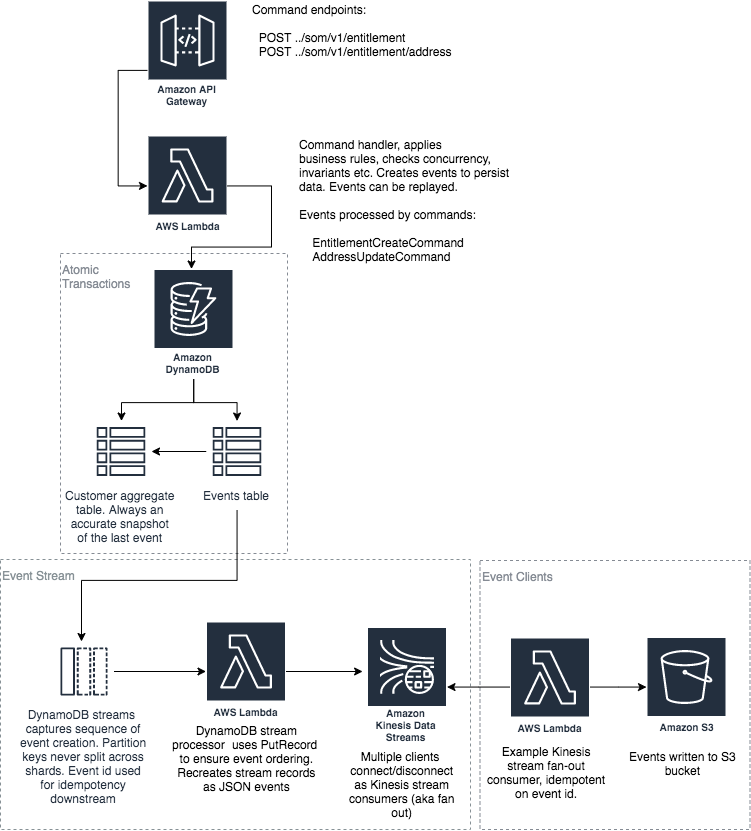
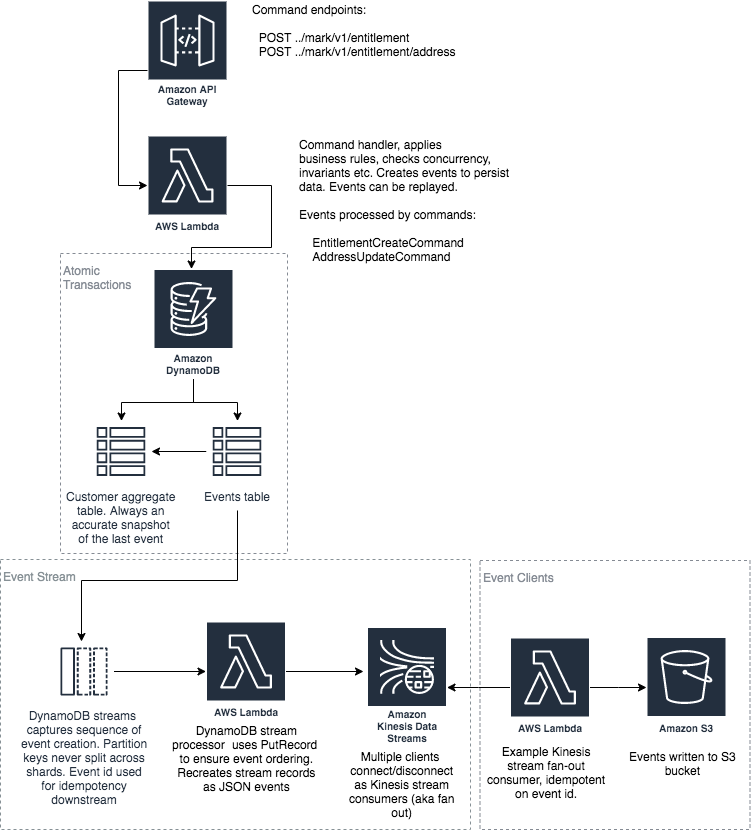
Improved README

diff --git a/src/main/java/com/sighware/mark/server/handler/Router.java b/src/main/java/com/sighware/mark/server/handler/Router.java
@@ -16,10 +16,10 @@ public class Router implements RequestHandler<AwsProxyRequest, AwsProxyResponse>
         try {
             log.info(request.getPath());
             switch (request.getPath()) {
-                case "/som/v1/entitlement":
+                case "/mark/v1/entitlement":
                     return new EntitlementHandler(DynamoDBAdapter.getInstance()).handle(request);
 
-                case "/som/v1/entitlement/address":
+                case "/mark/v1/entitlement/address":
                     return new AddressHandler(DynamoDBAdapter.getInstance()).handle(request);
 
                 default:

diff --git a/README.md b/README.md
@@ -1,3 +1,173 @@
 # mark-api
 
 ![mark](mark-api.png)
+
+This application depicted above is intended as a strawman to demonstrate the benefits of a light-weight, purely serverless event sourcing system. Event sourcing stores every state change to the application as an event object. These event objects are stored in the sequence they were applied for the lifetime of the application.
+
+Serverless was chosen to simplify the infrastructure with minimal dev ops; but, just as importantly, to use native cloud services rather than rely non-trivial specialist event sourced application frameworks. 
+
+This application adopts the core principle of event sourcing in that all changes to domain objects are done as a result of an event. Consequently, this straw man follows the key idioms of event sourcing: commands, immutable events, event streams, events as the system of record and the ability to replay the event stream to a point in time to get different states of a customer.
+
+The application perhaps deviates from a pure event sourcing pattern in these areas:
+
+1. No separate read and write models (i.e. no [CQRS](https://martinfowler.com/bliki/CQRS.html)). The view of the mark is always up to date so events do not necessarily need to be re-played; consequentially, there is no eventual consistency lag. Of course, being event sourced, events can still be replayed at anytime, if desired
+2. The app supports transactional concurrency, with an optimistic locking strategy
+2. Allows deletes, so in accordance with [GDPR](https://gdpr-info.eu/art-17-gdpr/), marks can be forgotten
+
+### System of Record
+
+The `RegistrationNumberEvent` table stores every single event that is submitted to the system. This is the immutable system of record for the application.
+
+The `RegistrationNumber` table is the materialized view of the system of record, for quick access by the application. This is not the system of record, merely a view of the system of record. 
+
+The mark can be retrieved from either the materialized view held in the `RegistrationNumber` table or rebuilt directly from the event stream held in the `RegistrationNumberEvent` table
+
+Both the `RegistrationNumberEvent` and `RegistrationNumber` table are persisted in one atomic transaction, with [Amazon DynamoDB Transactions](https://docs.aws.amazon.com/amazondynamodb/latest/developerguide/transactions.html), so that data updates are always consistent across both tables  
+
+### Event Stream
+
+Events traverse the event stream to notify downstream clients. The event stream is transactional and comprises:
+
+1. A DynamoDB stream from the `RegistrationNumberEvent` table, emitting transactional, reliable, time ordered sequence of events. Events remain in `RegistrationNumberEvent` for the lifetime of the application 
+2. The `DynamoDbStreamProcessor` lambda picks data off the DynamoDB stream and reassembles it into a JSON representation of the event. This event is then written to the kinesis stream`RegistrationNumberEventKinesisStream`.
+3. The Kinesis `CustomerEventKinesisStream` stream maintains the same time ordered sequence of events that can be fanned out to multiple interested clients
+4. The `KinesisStreamS3Processor` lambda is an example of a HTTP/2 Kinesis client using [enhanced fan-out](https://docs.aws.amazon.com/streams/latest/dev/introduction-to-enhanced-consumers.html) to read from the stream. It writes the events to S3. Multiple other enhanced fan-out Lambdas could also access the same stream, acting independently of each other, maintaining their own transactional view of the stream 
+
+### Outstanding Tasks
+
+Stuff for the next iteration:
+
+1. Downstream client (KinesisStreamS3Processor) is not idempotent
+2. Consider rewriting with TypeScript - the cold start times are 6 seconds!
+
+## Installation
+The application can be deployed in an AWS account using the [Serverless Application Model (SAM)](https://github.com/awslabs/serverless-application-model). 
+
+The example `KinesisStreamS3Processor` lambda client needs an S3 bucket created to store a copy of all events sent to the application. The `sam.yaml` file in the root folder contains the application definition. Once you've created the bucket, update the bucket name in `sam.yaml` file, replacing
+```
+  EventBucket:
+    Type: 'AWS::S3::Bucket'
+    Properties:
+      BucketName: "mark-api-event"
+```
+with
+```
+  EventBucket:
+    Type: 'AWS::S3::Bucket'
+    Properties:
+      BucketName: "<YOUR EVENT BUCKET NAME>"
+```
+To build and install the mark-api application you will need [AWS CLI](https://aws.amazon.com/cli/), [SAM](https://github.com/awslabs/serverless-application-model) and [Maven](https://maven.apache.org/) installed on your computer.
+
+Once they have been installed, from the shell, navigate to the root folder of the app and use maven to build a deployable jar. 
+```
+$ mvn clean package
+```
+
+This command should generate a `mark-api.jar` in the `target` folder. Now that we have generated the jar file, we can use SAM to package the sam for deployment. 
+
+You will need a deployment S3 bucket to store the artifacts for deployment. Once you have created the deployment S3 bucket, run the following command from the app root folder:
+
+```
+$ sam package --template-file sam.yaml --output-template-file packaged-sam.yaml --s3-bucket <YOUR DEPLOYMENT S3 BUCKET NAME>
+
+Uploading to xxxxxxxxxxxxxxxxxxxxxxxxxx  6464692 / 6464692.0  (100.00%)
+Successfully packaged artifacts and wrote output template to file output-template.yaml.
+Execute the following command to deploy the packaged template
+aws cloudformation deploy --template-file /your/path/output-sam.yaml --stack-name <YOUR STACK NAME>
+```
+
+You can now use the cli to deploy the application. Choose a stack name and run the `sam deploy` command.
+ 
+```
+$ sam deploy --template-file ./packaged-sam.yaml --stack-name <YOUR STACK NAME> --capabilities CAPABILITY_IAM
+```
+
+Once the application is deployed, you can describe the stack to show the API endpoint that was created. The endpoint should be the `CustomerRecordFuncApi` `OutputKey` of the `Outputs` property:
+
+```
+$ aws cloudformation describe-stacks --stack-name <YOUR STACK NAME>
+{
+    "Stacks": [
+        {
+            "StackId": "arn:aws:cloudformation:eu-west-2:022099488461:stack/mark-api/ef9fe4d0-12b7-11ea-82ab-0622cd7b28da",
+            "StackName": "mark-api",
+            "ChangeSetId": "arn:aws:cloudformation:eu-west-2:022099488461:changeSet/awscli-cloudformation-package-deploy-1575039178/1952ccc5-5890-4b16-b6bc-08e9aaa80de2",
+            "Description": "AWS SomApiApp API - my.api.app::my-api-app",
+            "CreationTime": "2019-11-29T14:52:59.699Z",
+            "LastUpdatedTime": "2019-11-29T14:53:05.087Z",
+            "RollbackConfiguration": {},
+            "StackStatus": "CREATE_COMPLETE",
+            "DisableRollback": false,
+            "NotificationARNs": [],
+            "Capabilities": [
+                "CAPABILITY_IAM"
+            ],
+            "Outputs": [
+                {
+                    "OutputKey": "SomApiAppApi",
+                    "OutputValue": "https://xxxxxxxxx.execute-api.eu-west-2.amazonaws.com/Prod",
+                    "Description": "URL for application",
+                    "ExportName": "SomApiAppApi"
+                },
+                {
+                    "OutputKey": "ConsumerARN",
+                    "OutputValue": "arn:aws:kinesis:eu-west-2:022099488461:stream/RegistrationNumberEventKinesisStream/consumer/RegistrationNumberEventStreamConsumer:1575039220",
+                    "Description": "Stream consumer ARN"
+                },
+                {
+                    "OutputKey": "StreamARN",
+                    "OutputValue": "arn:aws:kinesis:eu-west-2:022099488461:stream/RegistrationNumberEventKinesisStream",
+                    "Description": "Kinesis Stream ARN"
+                },
+                {
+                    "OutputKey": "RegistrationNumberEventDynamoDBTable",
+                    "OutputValue": "arn:aws:dynamodb:eu-west-2:022099488461:table/RegistrationNumberEvent/stream/2019-11-29T14:53:09.055",
+                    "Description": "DynamoDB Events table"
+                }
+            ],
+            "Tags": [],
+            "EnableTerminationProtection": false,
+            "DriftInformation": {
+                "StackDriftStatus": "NOT_CHECKED"
+            }
+        }
+    ]
+}
+```
+
+If any errors were encountered, examine the stack events to diagnose the issue
+
+```
+$ aws cloudformation describe-stack-events --stack-name <YOUR STACK NAME>
+```
+
+At any time, you may delete the stack
+
+```
+$ aws cloudformation delete-stack --stack-name <YOUR STACK NAME>
+```
+
+Create a mark type the following. This will only work once
+
+```
+$ curl -H "Content-Type: application/json" -X POST https://koxwmaauoh.execute-api.eu-west-2.amazonaws.com/Prod/mark/v1/entitlement -d '
+  {
+    "mark": "AFC F5",
+    "eventTime": "2019-11-29T09:26:43.837Z",
+    "price": 299,
+    "entitlement": {
+      "certificateNo": "EV56RP259VQP8G423H65",
+      "nomineeName": "Mr John Jones",
+      "certificateTime": "2019-11-29T09:26:43.786Z",
+      "purchaserName": "Felicity Jones",
+      "address": {
+        "addLine1": "2 My Street",
+        "addLine2": "Redwood",
+        "postTown": "Swansea",
+        "postcode": "SW1 4RT"
+      }
+    }
+  }'
+
+```
